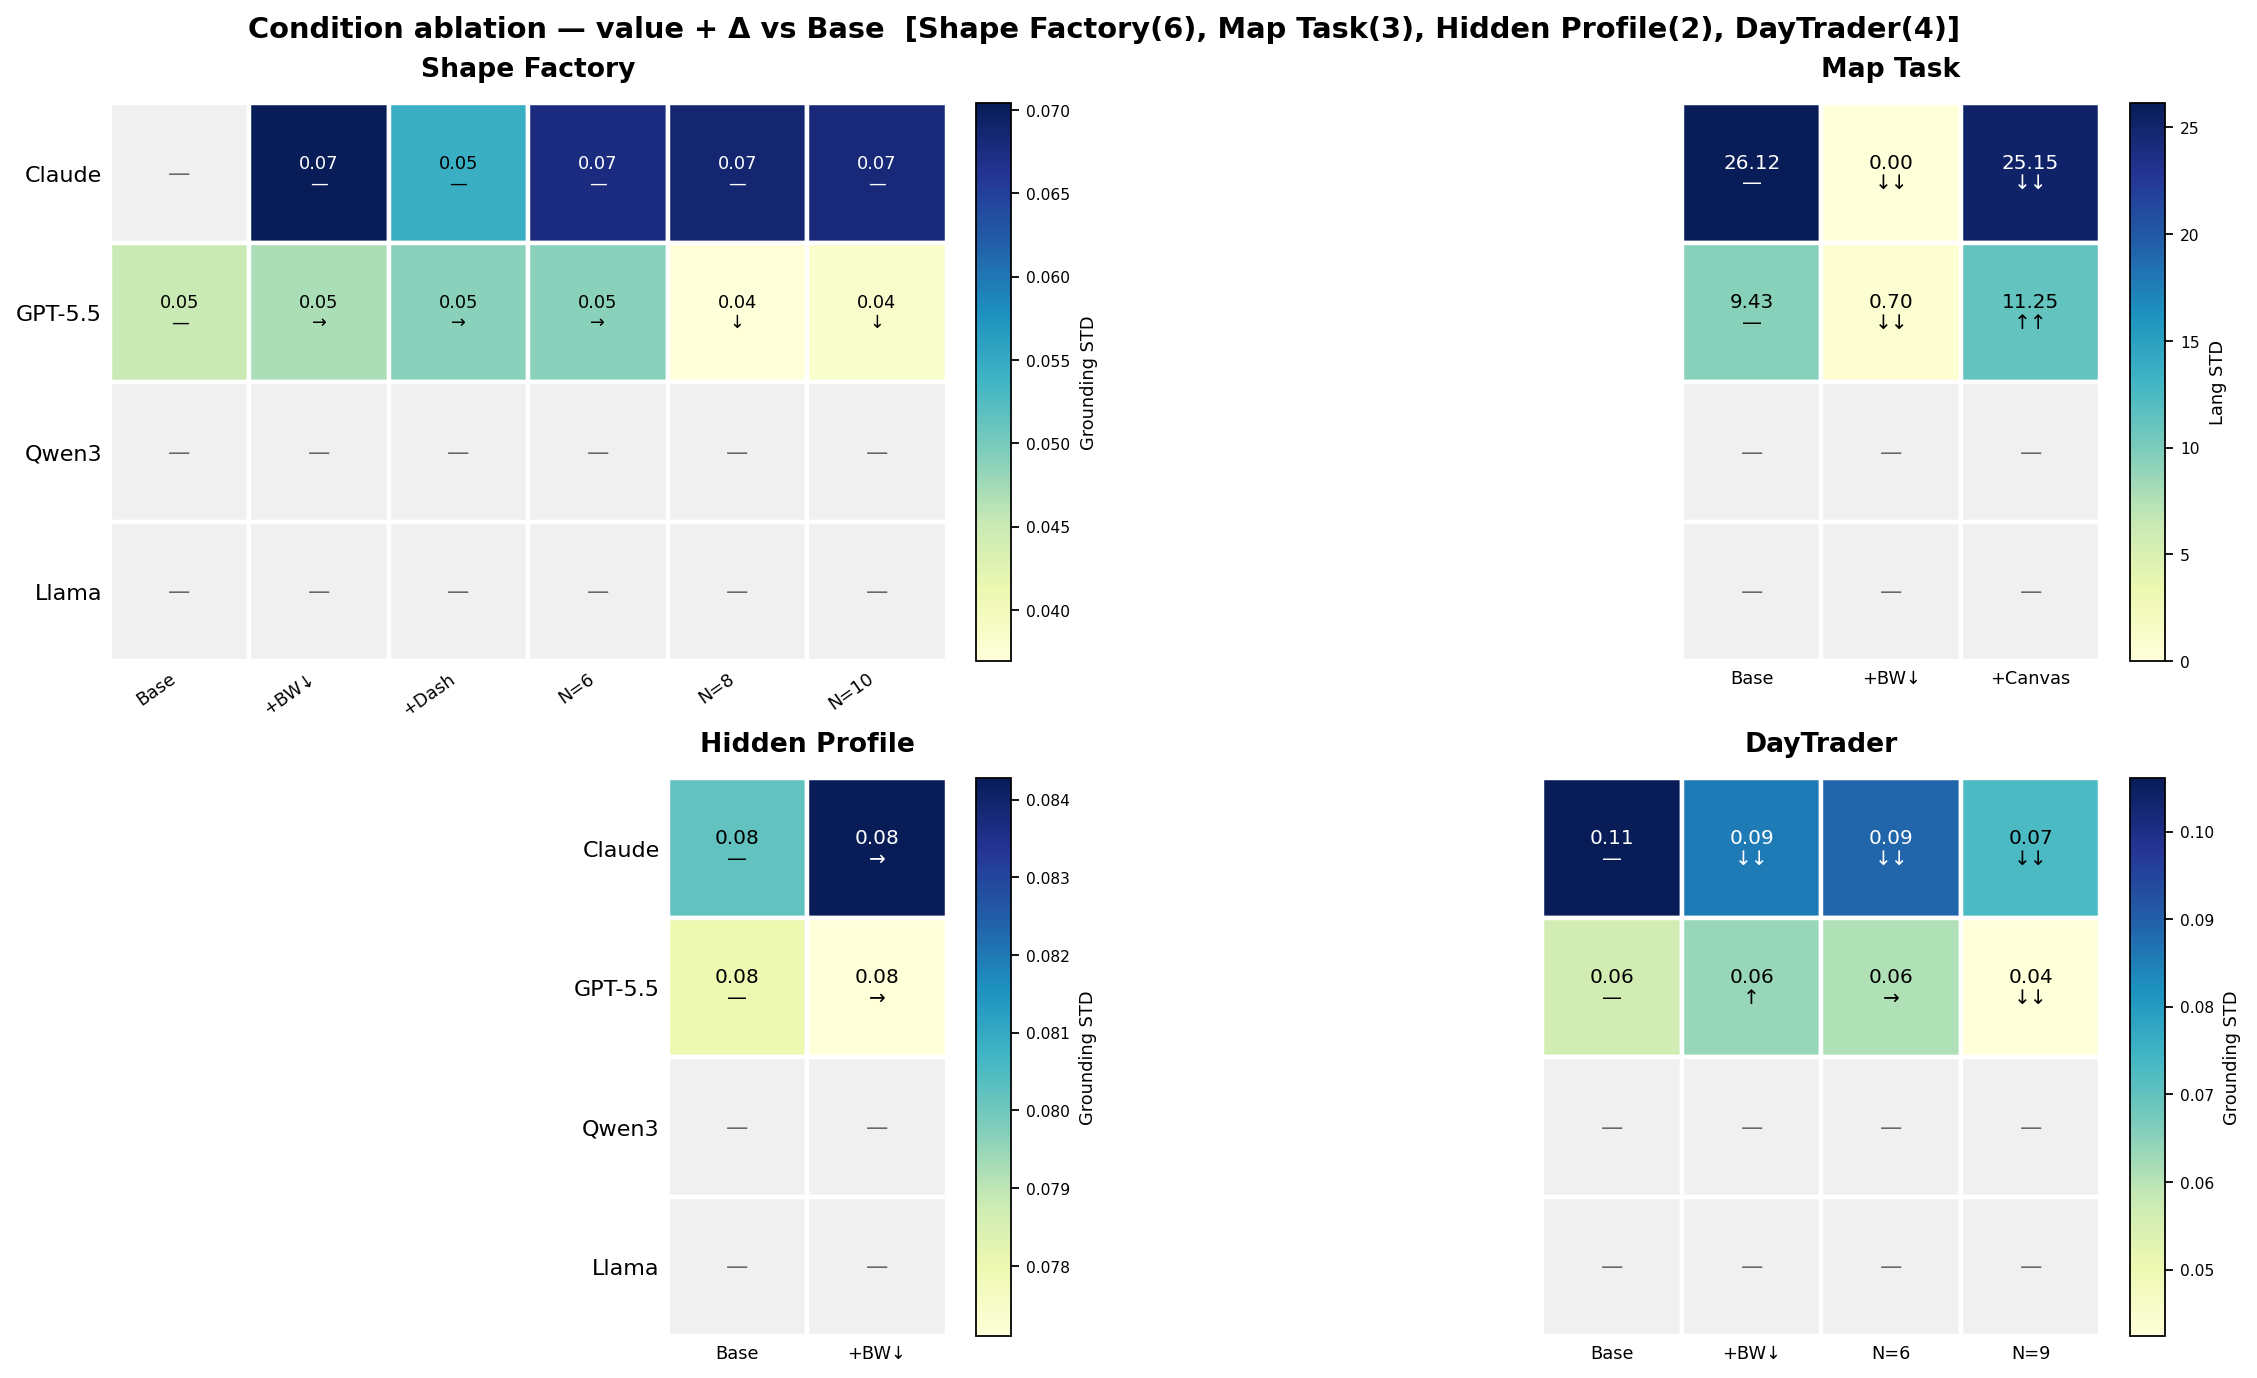
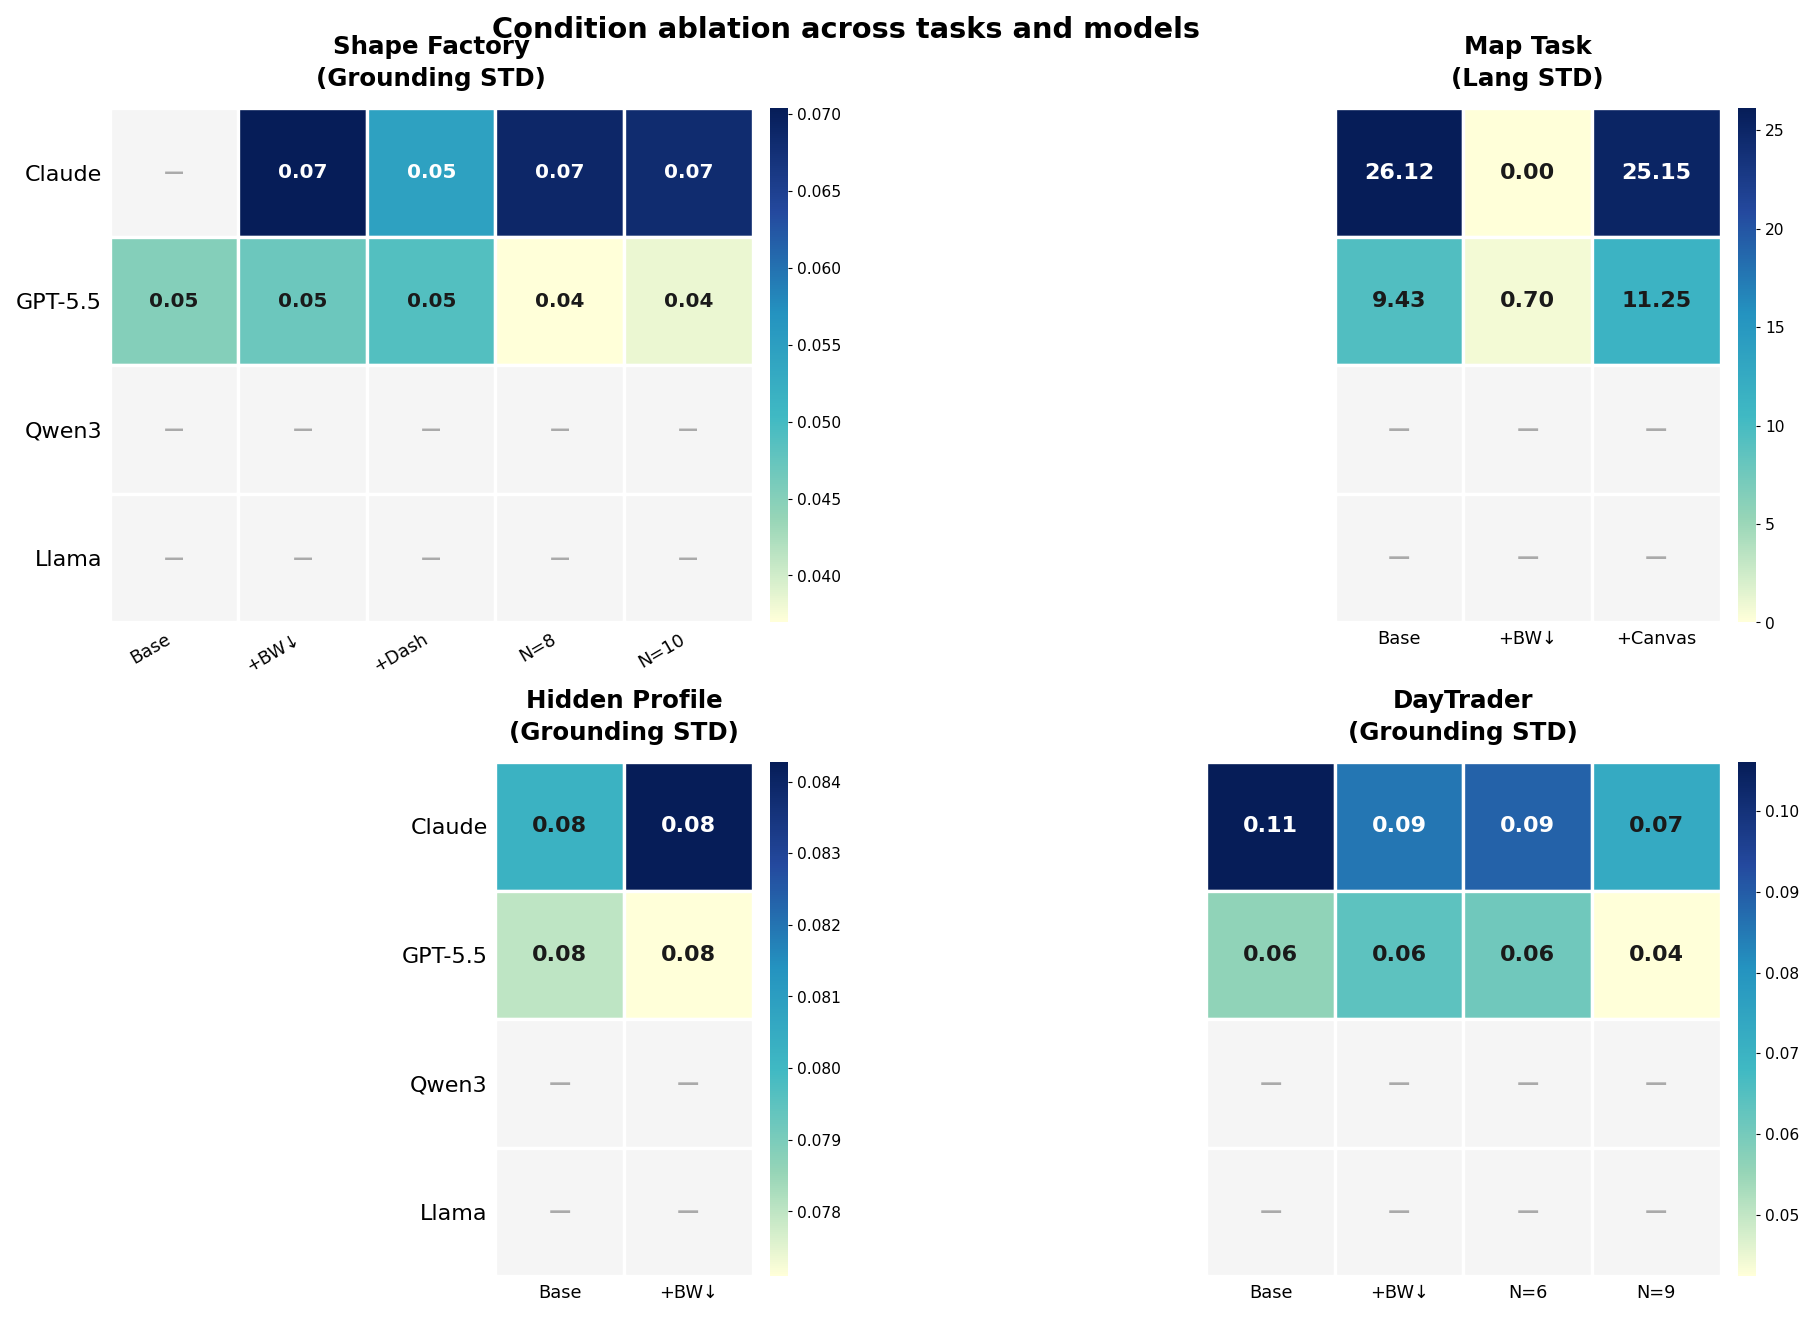
Fix HP prompts and batch output paths for study runs.
Show full message content in agent status updates, read logging.output_dir from YAML in run_task_batch, add noop_consecutive_cycles for early final vote, and update hidden_profile10 study configs.

diff --git a/tests/test_hidden_profile_status_update.py b/tests/test_hidden_profile_status_update.py
@@ -64,6 +64,58 @@ class HiddenProfileStatusUpdateTests(unittest.TestCase):
         self.assertIn("DISCUSSION", text)
         self.assertIn("decide / voting is not allowed", text)
 
+    def test_discussion_shows_message_content_in_visible_events(self) -> None:
+        obs = Observation(
+            state={
+                "task_state": {
+                    "task_type": "hidden_profile",
+                    "phase": "discussion",
+                }
+            },
+            visible_events=[
+                {
+                    "event_type": "message_delivered",
+                    "actor_id": "B",
+                    "payload": {
+                        "message_id": "msg_2",
+                        "channel": "broadcast",
+                        "content": "Candidate C handles stress well.",
+                        "content_type": "text",
+                        "recipients": ["A", "C"],
+                    },
+                }
+            ],
+            step_index=3,
+            game_status={"step_index": 3, "max_steps": 90},
+        )
+        text = format_agent_status_update("A", obs)
+        self.assertIn("Candidate C handles stress well", text)
+        self.assertIn("message_delivered", text)
+
+    def test_discussion_shows_full_message_content_not_truncated(self) -> None:
+        long_content = "A" * 120
+        obs = Observation(
+            state={"task_state": {"task_type": "hidden_profile", "phase": "discussion"}},
+            visible_events=[
+                {
+                    "event_type": "message_delivered",
+                    "actor_id": "B",
+                    "payload": {
+                        "message_id": "msg_9",
+                        "channel": "broadcast",
+                        "content": long_content,
+                        "content_type": "text",
+                        "recipients": ["A", "C"],
+                    },
+                }
+            ],
+            step_index=3,
+            game_status={"step_index": 3},
+        )
+        text = format_agent_status_update("A", obs)
+        self.assertIn(long_content, text)
+        self.assertNotIn("...", text)
+
 
 if __name__ == "__main__":
     unittest.main()

diff --git a/analysis/plot_persona_heatmaps.py b/analysis/plot_persona_heatmaps.py
@@ -38,6 +38,11 @@ MetricFn = Callable[[dict[str, Any]], float | None]
 
 BASELINE_CONDITION = "baseline"
 ARROW_THRESHOLD = 0.005
+# Per-task skips: SF baseline is already 6 agents, so N=6 duplicates Base.
+# DayTrader baseline is 3 agents — keep N=6.
+EXCLUDED_CONDITIONS_BY_TASK: dict[str, frozenset[str]] = {
+    "shapefactory": frozenset({"group_size_6"}),
+}
 
 # Custom ablation gradient: #ffffd9 (low) → … → #061d58 (high)
 _ABLATION_CMAP_STOPS: list[str] = [
@@ -143,7 +148,8 @@ def discover_conditions(task: str) -> list[str]:
     cfg_dir = CONFIGS_DIR / task
     if not cfg_dir.is_dir():
         raise FileNotFoundError(f"Missing config dir: {cfg_dir}")
-    slugs = [p.stem for p in cfg_dir.glob("*.yml")]
+    excluded = EXCLUDED_CONDITIONS_BY_TASK.get(task, frozenset())
+    slugs = [p.stem for p in cfg_dir.glob("*.yml") if p.stem not in excluded]
     if not slugs:
         raise ValueError(f"No *.yml configs in {cfg_dir}")
     return sorted(slugs, key=condition_sort_key)

diff --git a/src/agents/status_update_format.py b/src/agents/status_update_format.py
@@ -332,14 +332,11 @@ def _summarize_event_payload(event: dict[str, Any]) -> str:
     payload = event.get("payload")
     if not isinstance(payload, dict):
         return ""
-    keys = ("error_message", "message_id", "channel", "content_type", "recipients")
+    keys = ("error_message", "message_id", "channel", "content", "content_type", "recipients")
     parts: list[str] = []
     for key in keys:
         if key in payload:
-            val = payload[key]
-            if key == "content" and isinstance(val, str) and len(val) > 80:
-                val = val[:77] + "..."
-            parts.append(f"{key}={val!r}")
+            parts.append(f"{key}={payload[key]!r}")
     if parts:
         return " " + ", ".join(parts)
     return ""
